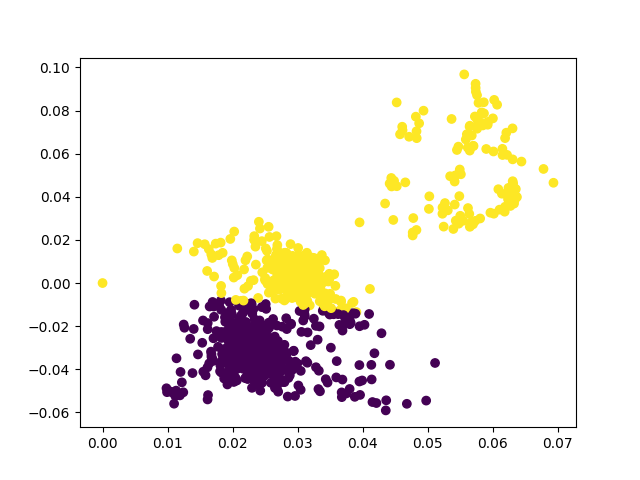
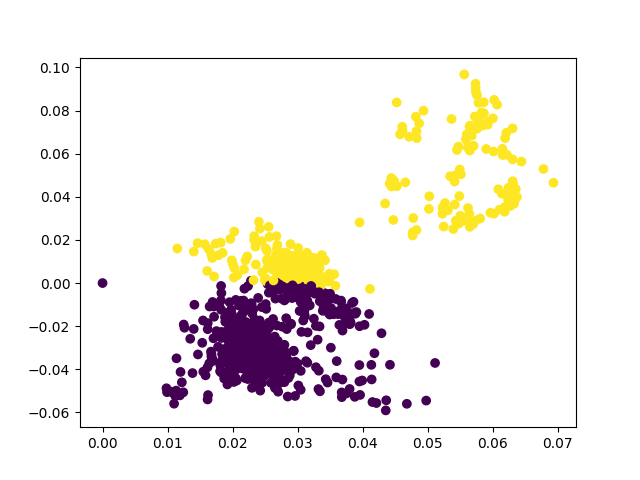
GT

Changed region(s): [[0.3125, 0.5625, 0.5625, 0.6562], [0.1562, 0.5625, 0.1875, 0.5938]]

diff --git a/src/clustering.py b/src/clustering.py
@@ -10,10 +10,11 @@ class Clustering():
     
     def __init__(self, data_csv):
         self.dataset = data_csv
+        self.__defineGT__(["147.32.84.165", "147.32.84.191", "147.32.84.192"])
         self.dataset = self.process_entropy()
         self.__compute_PCA__()
         self.clust_alg = None
-        
+
     def __feature_select__(self):
         self.dataset = self.dataset[["Source_int", "Destination_int", "Source_Port", "Destination_Port", "Length", "point_id"]]
     
@@ -22,6 +23,19 @@ class Clustering():
         pca = PCA(n_components = 2)
         pca.fit(data.transpose())
         self.pca_points = pca.components_.transpose()
+
+    def __defineGT__(self, botnets):
+        n_points_total = self.dataset["point_id"].values[-1]
+        infected_list = []
+        for point in range(n_points_total+1):
+            infected = 0
+            source_ips = self.dataset[self.dataset["point_id"] == point]["Source"]
+            for ip in source_ips:
+                for bot in botnets:
+                    if ip == bot:
+                        infected = 1
+            infected_list.append(infected)
+        self.infected = infected_list
 
     def process_entropy(self):
         self.__feature_select__()
@@ -80,4 +94,9 @@ class Clustering():
         clusters = self.clust_alg.fit_predict(self.pca_points)
         plt.scatter(self.pca_points[:, 0], self.pca_points[:, 1], c=clusters)
         plt.savefig("./{}.png".format(self.method))
+        plt.close()
+
+    def ground_truth(self):
+        plt.scatter(self.pca_points[:, 0], self.pca_points[:, 1], c=self.infected)
+        plt.savefig("./GT.png")
         plt.close()

diff --git a/src/main.py b/src/main.py
@@ -15,3 +15,4 @@ clust.load_ward()
 clust.clusterize()
 clust.load_spectral()
 clust.clusterize()
+clust.ground_truth()
